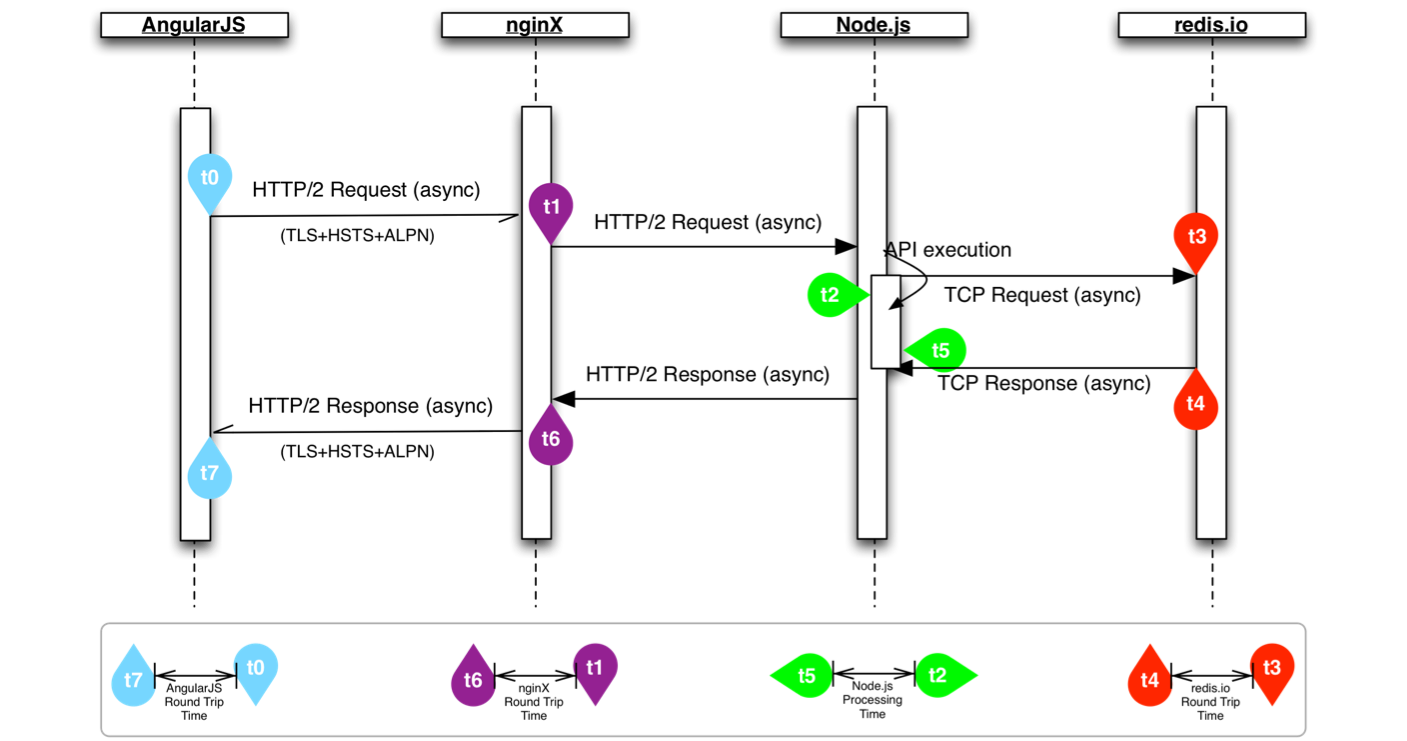
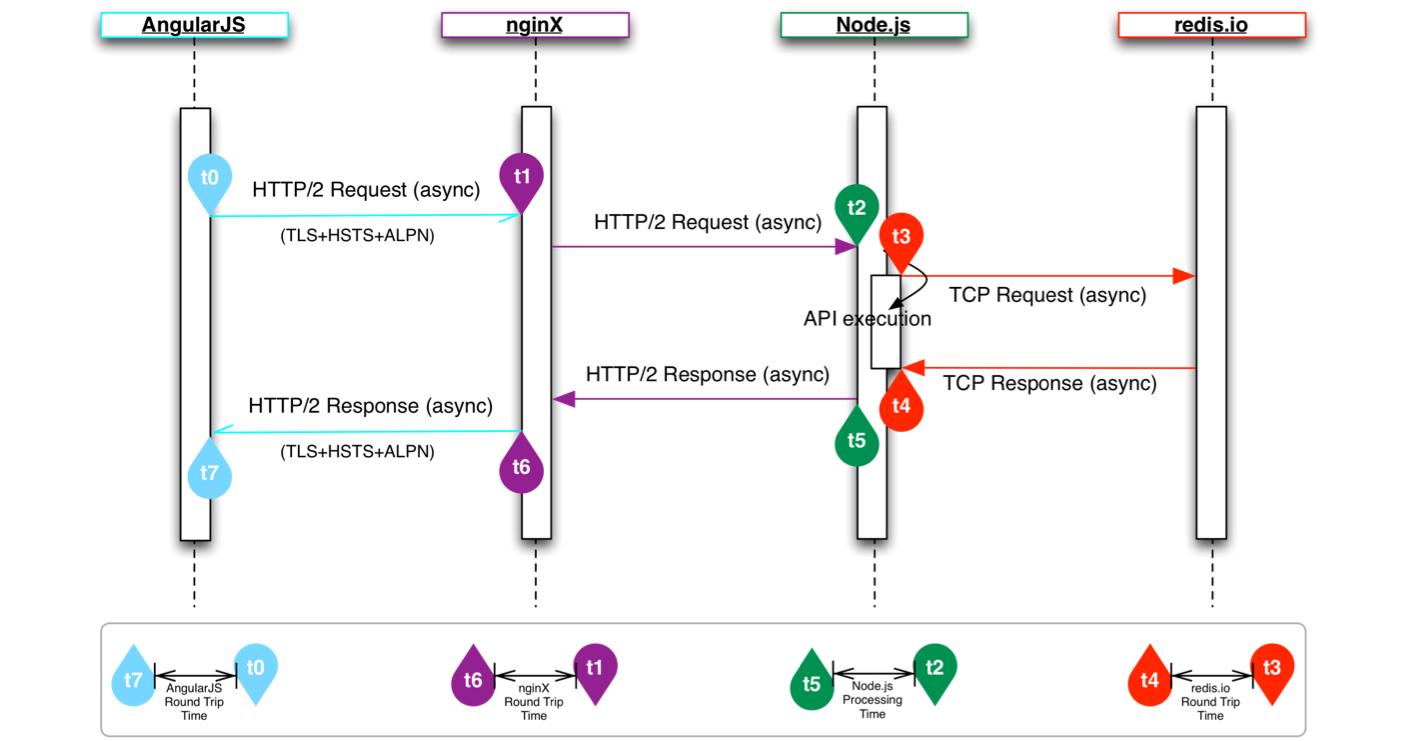
Adjusting new timers on sequence diagram

diff --git a/simulator.html b/simulator.html
@@ -213,7 +213,7 @@
 			<div class="panel-heading">
 				<h4 class="panel-title"><i class="fa fa-sitemap"></i>&nbsp;Execution Architecture</h4>
 			</div>
-			<img class="img-responsive" src="./node.png">
+			<img class="img-responsive" src="./execution-arch.png">
 		</div>
 	</div>
 	<!-- Reference links -->
